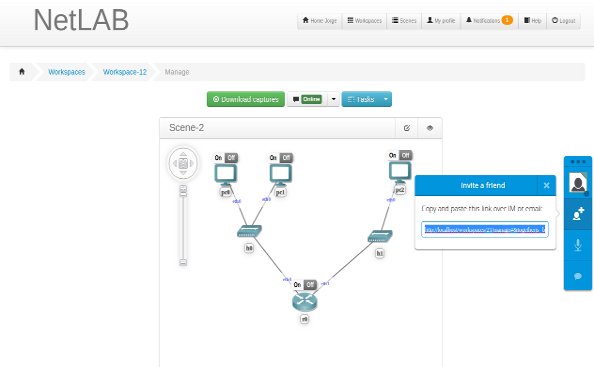
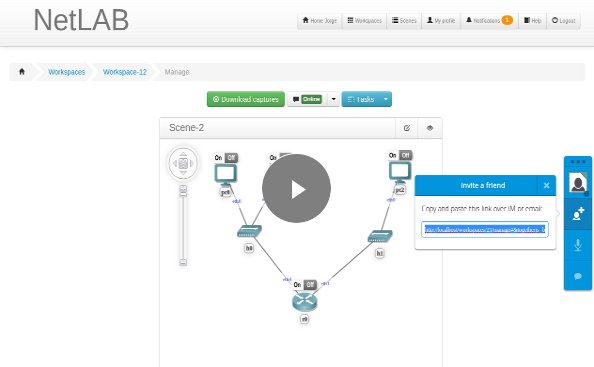
Add video in front cover

Changed region(s): [[0.4242, 0.4196, 0.5758, 0.6294]]

diff --git a/app/assets/javascripts/application.js b/app/assets/javascripts/application.js
@@ -55,6 +55,25 @@ $(document).ready(function (){
   // Change color btn sign_in
   $("#btn-sign_in > center > div.btn").removeClass("btn-info");
   $("#btn-sign_in > center > div.btn").addClass("btn-warning");
+  
+  //Video player
+  $("#slide-1").click(function() {
+    $("#marketing-video").fadeIn();
+  }); 
+  
+  $("#marketing-video").click(function() {
+    $("#marketing-video").fadeOut();
+  }); 
+  
+  $(".video-closebtn" ).click(function() {
+    $("#marketing-video").fadeOut();
+  }); 
+  
+  // stop youtube from playing on btn close
+  $('.video-closebtn').click(function(){
+    var myPlayer = document.getElementById('youtubevid');
+    myPlayer.stopVideo();
+  }); 
 });
 
 function check_chat_started() {

diff --git a/app/assets/stylesheets/application.css b/app/assets/stylesheets/application.css
@@ -536,3 +536,30 @@ span.icon {
 #content-h3 {
   margin: 40px 40px 20px;
 }
+
+#marketing-video {
+  background: none repeat scroll 0 0 rgba(0, 0, 0, 0.8);
+  display: none;
+  height: 600px;
+  left: 0;
+  margin-bottom: 200px;
+  position: absolute;
+  top: 0;
+  width: 100%;
+  z-index: 99;
+}
+
+#marketing-video #frame-video {
+  padding-top: 120px;
+  width: 80%;
+}
+
+.video-closebtn {
+  color: rgba(255, 255, 255, 0.5);
+  cursor: pointer;
+  float: right;
+}
+
+#slide-1 {
+  cursor: pointer;
+}
